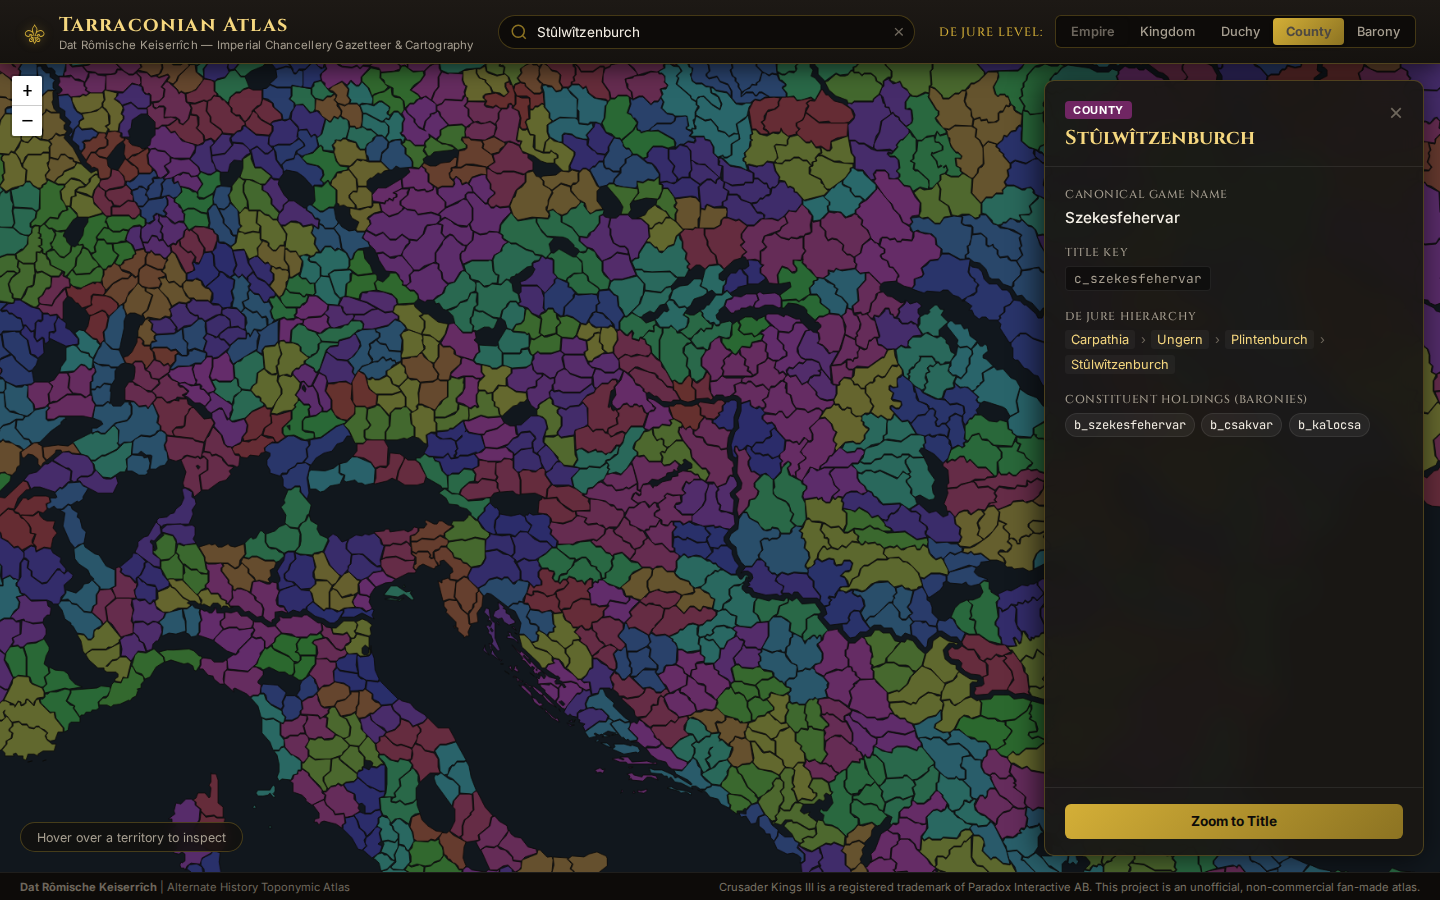
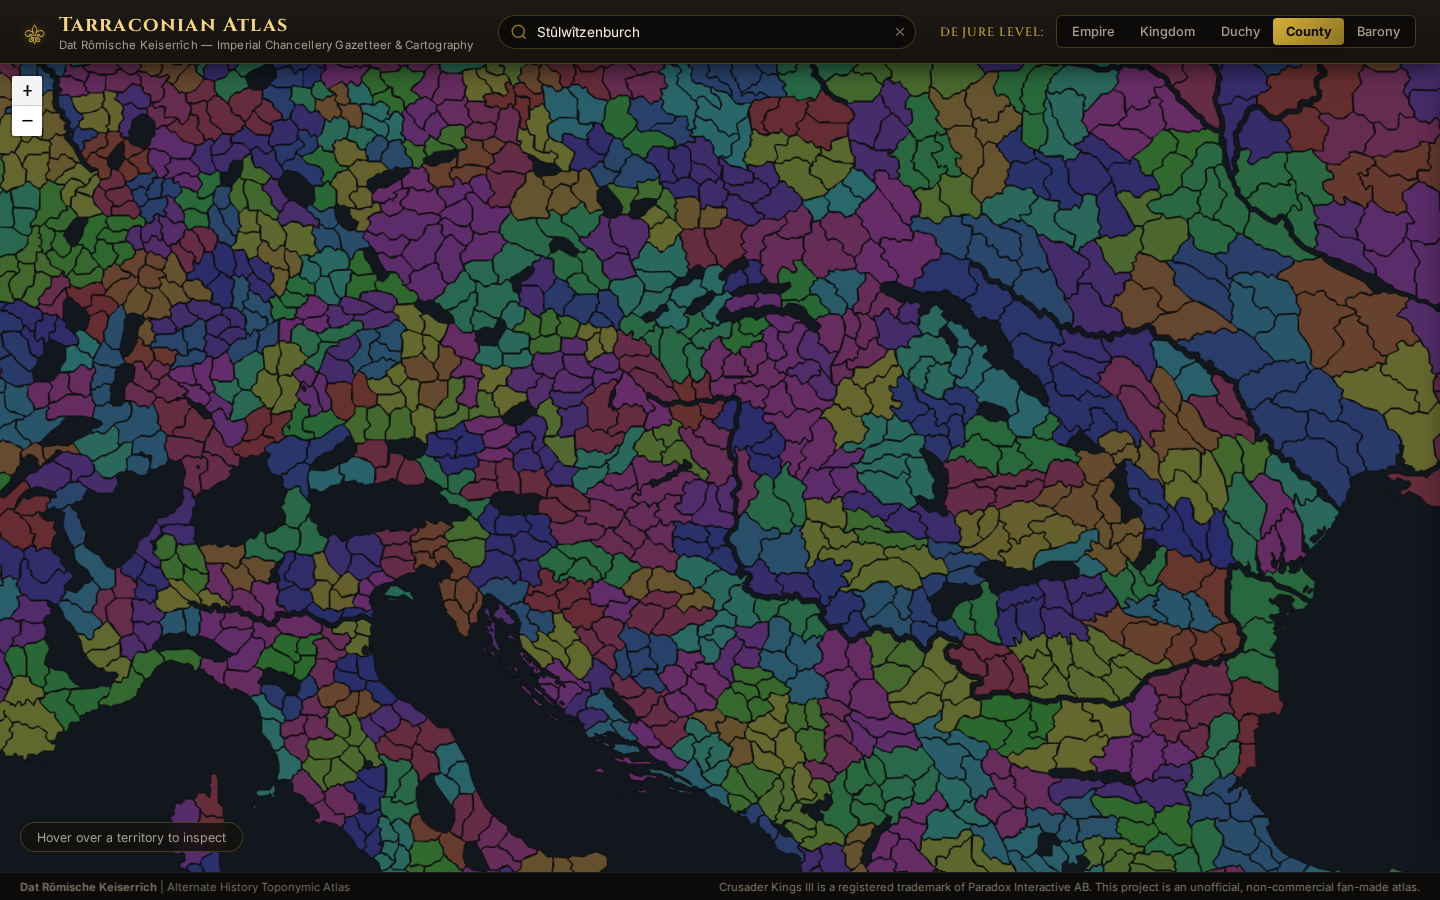
Fix residual hover highlighting by eliminating DOM reordering and adding active hover state management

Changed region(s): [[0.7188, 0.0311, 1.0, 0.9644], [0.6562, 0.0311, 0.7188, 0.0622]]

diff --git a/docs/js/app.js b/docs/js/app.js
@@ -13,6 +13,7 @@ let countiesLayer = null;
 let baroniesLayer = null;
 let selectedFeature = null;
 let selectedLayer = null;
+let hoveredLayer = null;
 
 // Search index: array of { key, name, tarr, tier, bounds, layer }
 let searchIndex = [];
@@ -62,6 +63,15 @@ function initMap() {
 
   // Zoom to Europe/Mediterranean by default
   map.setView([2304, 4608], -2);
+
+  // Clear any residual hover when leaving the canvas or moving over background ocean
+  map.on('mouseout', clearHover);
+  map.getContainer().addEventListener('mouseleave', clearHover);
+  map.on('mousemove', (e) => {
+    if (hoveredLayer && e.originalEvent && e.originalEvent.target && e.originalEvent.target.tagName !== 'path') {
+      clearHover();
+    }
+  });
 }
 
 // ---------------------------------------------------------------------------
@@ -162,6 +172,7 @@ function baronyStyle(feature) {
 }
 
 function renderActiveLayer() {
+  clearHover();
   if (currentTier === 'barony') {
     if (countiesLayer) map.removeLayer(countiesLayer);
     renderBaronies();
@@ -172,6 +183,7 @@ function renderActiveLayer() {
 }
 
 function renderCounties() {
+  clearHover();
   if (countiesLayer) {
     countiesLayer.setStyle(countyStyle);
     return;
@@ -181,15 +193,16 @@ function renderCounties() {
     style: countyStyle,
     onEachFeature: (feature, layer) => {
       layer.on({
-        mouseover: (e) => onHover(e, feature),
-        mouseout: (e) => onHoverOut(e, feature),
-        click: (e) => onSelect(e, feature, layer)
+        mouseover: () => onHover(layer, feature),
+        mouseout: () => onHoverOut(layer, feature),
+        click: () => onSelect(layer, feature, currentTier)
       });
     }
   }).addTo(map);
 }
 
 async function renderBaronies() {
+  clearHover();
   await ensureBaroniesLoaded();
   if (!baroniesGeojson) return;
 
@@ -198,9 +211,9 @@ async function renderBaronies() {
       style: baronyStyle,
       onEachFeature: (feature, layer) => {
         layer.on({
-          mouseover: (e) => onHover(e, feature, 'barony'),
-          mouseout: (e) => onHoverOut(e, feature),
-          click: (e) => onSelect(e, feature, layer, 'barony')
+          mouseover: () => onHover(layer, feature, 'barony'),
+          mouseout: () => onHoverOut(layer, feature),
+          click: () => onSelect(layer, feature, 'barony')
         });
       }
     });
@@ -212,21 +225,49 @@ async function renderBaronies() {
 // ---------------------------------------------------------------------------
 // Interaction Handlers (Hover, Click, Inspect)
 // ---------------------------------------------------------------------------
-function onHover(e, feature, tier = currentTier) {
-  const layer = e.target;
-  const p = feature.properties;
-
-  layer.setStyle({
-    weight: 2.5,
-    color: '#f5d77f',
-    fillOpacity: 0.85
-  });
-  if (!L.Browser.ie && !L.Browser.opera && !L.Browser.edge) {
-    layer.bringToFront();
+function resetLayerStyle(layer) {
+  if (!layer || layer === selectedLayer) return;
+  if (currentTier === 'barony' && baroniesLayer) {
+    baroniesLayer.resetStyle(layer);
+  } else if (countiesLayer) {
+    countiesLayer.resetStyle(layer);
   }
+}
+
+function clearHover() {
+  if (hoveredLayer) {
+    resetLayerStyle(hoveredLayer);
+    hoveredLayer = null;
+  }
+  const hoverBadge = document.getElementById('hover-info');
+  if (hoverBadge) {
+    hoverBadge.innerHTML = 'Hover over a territory to inspect';
+  }
+}
+
+function onHover(layer, feature, tier = currentTier) {
+  if (!layer) return;
+
+  // Immediately clear previous hover if moving between adjacent territories
+  if (hoveredLayer && hoveredLayer !== layer) {
+    resetLayerStyle(hoveredLayer);
+  }
+  hoveredLayer = layer;
+
+  // Highlight only if this is not the actively selected inspection target
+  if (layer !== selectedLayer) {
+    layer.setStyle({
+      weight: 2.5,
+      color: '#f5d77f',
+      fillOpacity: 0.85
+    });
+  }
+  // Note: We intentionally avoid layer.bringToFront() here because DOM re-ordering
+  // drops mouseout events and creates residual highlighting across SVG vector geometries.
 
   // Update floating status badge
   const hoverBadge = document.getElementById('hover-info');
+  const p = feature.properties;
   let titleName = '';
   let rankLabel = '';
 
@@ -250,22 +291,25 @@ function onHover(e, feature, tier = currentTier) {
   hoverBadge.innerHTML = `<strong>${rankLabel}:</strong> ${titleName} <span style="opacity:0.6;font-family:var(--font-mono)">(${p[tier] || p.county || ''})</span>`;
 }
 
-function onHoverOut(e, feature) {
-  const layer = e.target;
-  if (layer !== selectedLayer) {
-    if (currentTier === 'barony' && baroniesLayer) {
-      baroniesLayer.resetStyle(layer);
-    } else if (countiesLayer) {
-      countiesLayer.resetStyle(layer);
-    }
+function onHoverOut(layer, feature) {
+  if (layer === hoveredLayer) {
+    clearHover();
+  } else {
+    resetLayerStyle(layer);
   }
 }
 
-function onSelect(e, feature, layer, tier = currentTier) {
+function onSelect(layer, feature, tier = currentTier) {
+  if (!layer) return;
+
   if (selectedLayer && selectedLayer !== layer) {
-    if (countiesLayer) countiesLayer.resetStyle(selectedLayer);
-    if (baroniesLayer) baroniesLayer.resetStyle(selectedLayer);
+    resetLayerStyle(selectedLayer);
   }
+
+  if (hoveredLayer && hoveredLayer !== layer) {
+    resetLayerStyle(hoveredLayer);
+  }
+  hoveredLayer = null;
 
   selectedFeature = feature;
   selectedLayer = layer;
@@ -352,11 +396,11 @@ function openInspector(props, tier) {
 function closeInspector() {
   document.getElementById('inspector-drawer').classList.remove('open');
   if (selectedLayer) {
-    if (countiesLayer) countiesLayer.resetStyle(selectedLayer);
-    if (baroniesLayer) baroniesLayer.resetStyle(selectedLayer);
+    resetLayerStyle(selectedLayer);
     selectedLayer = null;
     selectedFeature = null;
   }
+  clearHover();
 }
 
 // ---------------------------------------------------------------------------
@@ -436,7 +480,7 @@ function jumpToTitle(countyKey) {
   if (targetLayer) {
     const bounds = targetLayer.getBounds();
     map.fitBounds(bounds, { maxZoom: 0, padding: [60, 60] });
-    onSelect({ target: targetLayer }, targetLayer.feature, targetLayer, 'county');
+    onSelect(targetLayer, targetLayer.feature, 'county');
   }
 }
 

diff --git a/web/js/app.js b/web/js/app.js
@@ -13,6 +13,7 @@ let countiesLayer = null;
 let baroniesLayer = null;
 let selectedFeature = null;
 let selectedLayer = null;
+let hoveredLayer = null;
 
 // Search index: array of { key, name, tarr, tier, bounds, layer }
 let searchIndex = [];
@@ -62,6 +63,15 @@ function initMap() {
 
   // Zoom to Europe/Mediterranean by default
   map.setView([2304, 4608], -2);
+
+  // Clear any residual hover when leaving the canvas or moving over background ocean
+  map.on('mouseout', clearHover);
+  map.getContainer().addEventListener('mouseleave', clearHover);
+  map.on('mousemove', (e) => {
+    if (hoveredLayer && e.originalEvent && e.originalEvent.target && e.originalEvent.target.tagName !== 'path') {
+      clearHover();
+    }
+  });
 }
 
 // ---------------------------------------------------------------------------
@@ -162,6 +172,7 @@ function baronyStyle(feature) {
 }
 
 function renderActiveLayer() {
+  clearHover();
   if (currentTier === 'barony') {
     if (countiesLayer) map.removeLayer(countiesLayer);
     renderBaronies();
@@ -172,6 +183,7 @@ function renderActiveLayer() {
 }
 
 function renderCounties() {
+  clearHover();
   if (countiesLayer) {
     countiesLayer.setStyle(countyStyle);
     return;
@@ -181,15 +193,16 @@ function renderCounties() {
     style: countyStyle,
     onEachFeature: (feature, layer) => {
       layer.on({
-        mouseover: (e) => onHover(e, feature),
-        mouseout: (e) => onHoverOut(e, feature),
-        click: (e) => onSelect(e, feature, layer)
+        mouseover: () => onHover(layer, feature),
+        mouseout: () => onHoverOut(layer, feature),
+        click: () => onSelect(layer, feature, currentTier)
       });
     }
   }).addTo(map);
 }
 
 async function renderBaronies() {
+  clearHover();
   await ensureBaroniesLoaded();
   if (!baroniesGeojson) return;
 
@@ -198,9 +211,9 @@ async function renderBaronies() {
       style: baronyStyle,
       onEachFeature: (feature, layer) => {
         layer.on({
-          mouseover: (e) => onHover(e, feature, 'barony'),
-          mouseout: (e) => onHoverOut(e, feature),
-          click: (e) => onSelect(e, feature, layer, 'barony')
+          mouseover: () => onHover(layer, feature, 'barony'),
+          mouseout: () => onHoverOut(layer, feature),
+          click: () => onSelect(layer, feature, 'barony')
         });
       }
     });
@@ -212,21 +225,49 @@ async function renderBaronies() {
 // ---------------------------------------------------------------------------
 // Interaction Handlers (Hover, Click, Inspect)
 // ---------------------------------------------------------------------------
-function onHover(e, feature, tier = currentTier) {
-  const layer = e.target;
-  const p = feature.properties;
-
-  layer.setStyle({
-    weight: 2.5,
-    color: '#f5d77f',
-    fillOpacity: 0.85
-  });
-  if (!L.Browser.ie && !L.Browser.opera && !L.Browser.edge) {
-    layer.bringToFront();
+function resetLayerStyle(layer) {
+  if (!layer || layer === selectedLayer) return;
+  if (currentTier === 'barony' && baroniesLayer) {
+    baroniesLayer.resetStyle(layer);
+  } else if (countiesLayer) {
+    countiesLayer.resetStyle(layer);
   }
+}
+
+function clearHover() {
+  if (hoveredLayer) {
+    resetLayerStyle(hoveredLayer);
+    hoveredLayer = null;
+  }
+  const hoverBadge = document.getElementById('hover-info');
+  if (hoverBadge) {
+    hoverBadge.innerHTML = 'Hover over a territory to inspect';
+  }
+}
+
+function onHover(layer, feature, tier = currentTier) {
+  if (!layer) return;
+
+  // Immediately clear previous hover if moving between adjacent territories
+  if (hoveredLayer && hoveredLayer !== layer) {
+    resetLayerStyle(hoveredLayer);
+  }
+  hoveredLayer = layer;
+
+  // Highlight only if this is not the actively selected inspection target
+  if (layer !== selectedLayer) {
+    layer.setStyle({
+      weight: 2.5,
+      color: '#f5d77f',
+      fillOpacity: 0.85
+    });
+  }
+  // Note: We intentionally avoid layer.bringToFront() here because DOM re-ordering
+  // drops mouseout events and creates residual highlighting across SVG vector geometries.
 
   // Update floating status badge
   const hoverBadge = document.getElementById('hover-info');
+  const p = feature.properties;
   let titleName = '';
   let rankLabel = '';
 
@@ -250,22 +291,25 @@ function onHover(e, feature, tier = currentTier) {
   hoverBadge.innerHTML = `<strong>${rankLabel}:</strong> ${titleName} <span style="opacity:0.6;font-family:var(--font-mono)">(${p[tier] || p.county || ''})</span>`;
 }
 
-function onHoverOut(e, feature) {
-  const layer = e.target;
-  if (layer !== selectedLayer) {
-    if (currentTier === 'barony' && baroniesLayer) {
-      baroniesLayer.resetStyle(layer);
-    } else if (countiesLayer) {
-      countiesLayer.resetStyle(layer);
-    }
+function onHoverOut(layer, feature) {
+  if (layer === hoveredLayer) {
+    clearHover();
+  } else {
+    resetLayerStyle(layer);
   }
 }
 
-function onSelect(e, feature, layer, tier = currentTier) {
+function onSelect(layer, feature, tier = currentTier) {
+  if (!layer) return;
+
   if (selectedLayer && selectedLayer !== layer) {
-    if (countiesLayer) countiesLayer.resetStyle(selectedLayer);
-    if (baroniesLayer) baroniesLayer.resetStyle(selectedLayer);
+    resetLayerStyle(selectedLayer);
   }
+
+  if (hoveredLayer && hoveredLayer !== layer) {
+    resetLayerStyle(hoveredLayer);
+  }
+  hoveredLayer = null;
 
   selectedFeature = feature;
   selectedLayer = layer;
@@ -352,11 +396,11 @@ function openInspector(props, tier) {
 function closeInspector() {
   document.getElementById('inspector-drawer').classList.remove('open');
   if (selectedLayer) {
-    if (countiesLayer) countiesLayer.resetStyle(selectedLayer);
-    if (baroniesLayer) baroniesLayer.resetStyle(selectedLayer);
+    resetLayerStyle(selectedLayer);
     selectedLayer = null;
     selectedFeature = null;
   }
+  clearHover();
 }
 
 // ---------------------------------------------------------------------------
@@ -436,7 +480,7 @@ function jumpToTitle(countyKey) {
   if (targetLayer) {
     const bounds = targetLayer.getBounds();
     map.fitBounds(bounds, { maxZoom: 0, padding: [60, 60] });
-    onSelect({ target: targetLayer }, targetLayer.feature, targetLayer, 'county');
+    onSelect(targetLayer, targetLayer.feature, 'county');
   }
 }
 
